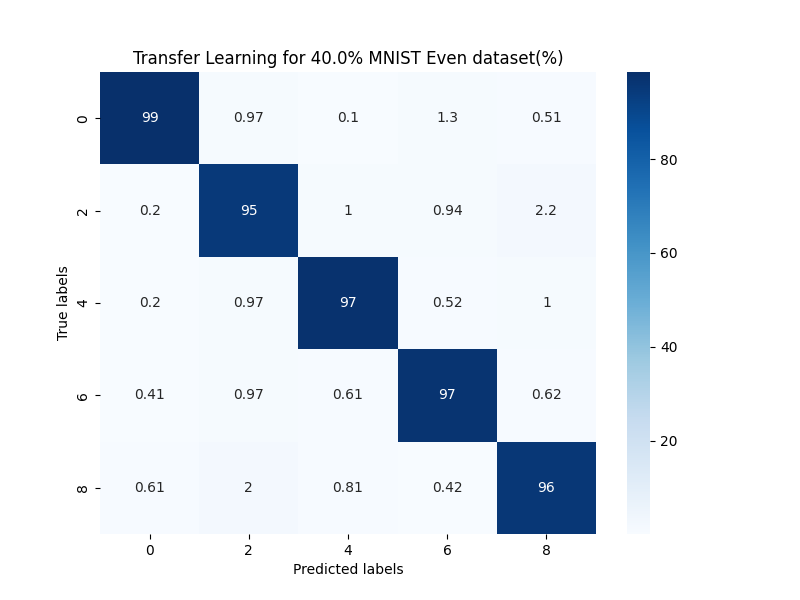
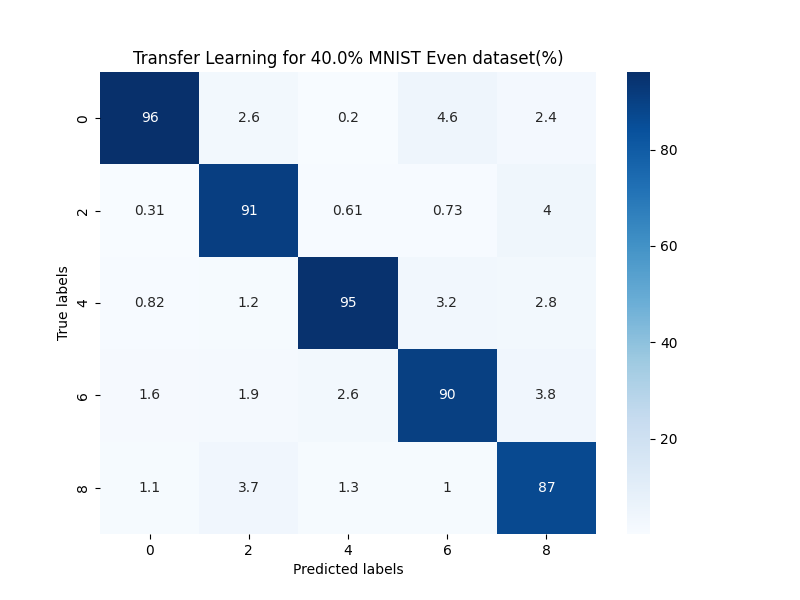
changed tensors to use cpu since the mps is not working. Will be worked on later

diff --git a/dataset.py b/dataset.py
@@ -31,24 +31,16 @@ def to_tensor():
     train_even_data, train_odd_data = even_odd_split(train_loader)
     test_even_data, test_odd_data = even_odd_split(test_loader)
 
-    if torch.backends.mps.is_available():
-        device = torch.device('mps')
-        print('mps available')
-    elif torch.cuda.is_available():
-        device = torch.device('cuda')
-    else:
-        device = torch.device('cpu')
+    X_train_even = torch.tensor(train_even_data.drop(columns=['label']).values, dtype=torch.float32)/255
+    y_train_even = torch.tensor(train_even_data['label'].values, dtype=torch.long)
 
-    X_train_even = torch.tensor(train_even_data.drop(columns=['label']).values, dtype=torch.float32, device=device)/255
-    y_train_even = torch.tensor(train_even_data['label'].values, dtype=torch.long, device=device)
-
-    X_test_even = torch.tensor(test_even_data.drop(columns=['label']).values, dtype=torch.float32, device=device)/255
-    y_test_even = torch.tensor(test_even_data['label'].values, dtype=torch.long, device=device)
+    X_test_even = torch.tensor(test_even_data.drop(columns=['label']).values, dtype=torch.float32)/255
+    y_test_even = torch.tensor(test_even_data['label'].values, dtype=torch.long)
 
     n_samples_even, n_features_even = X_train_even.shape
 
-    X_train_odd = torch.tensor(train_odd_data.drop(columns=['label']).values, dtype=torch.float32, device=device)/255
-    y_train_odd = torch.tensor(train_odd_data['label'].values, dtype=torch.long, device=device)
+    X_train_odd = torch.tensor(train_odd_data.drop(columns=['label']).values, dtype=torch.float32)/255
+    y_train_odd = torch.tensor(train_odd_data['label'].values, dtype=torch.long)
 
     X_test_odd = torch.tensor(test_odd_data.drop(columns=['label']).values, dtype=torch.float32)/255
     y_test_odd = torch.tensor(test_odd_data['label'].values, dtype=torch.long)

diff --git a/main.py b/main.py
@@ -48,7 +48,7 @@ def plot_confusion_odd(model, title, file, test_data=X_test_odd):
 
 
 n_classes = 5
-n_epochs = 1000
+n_epochs = 100
 lr = 0.1
 hidden_layer = 500
 
@@ -116,5 +116,5 @@ for percentage in percentages:
     optimizer = torch.optim.Adam(trans_odd_model.parameters(), lr=lr)
     trans_odd_model.fit(X_train_trans_odd[:perc_samples], y_train_odd[:perc_samples], X_test_trans_odd,
                         y_test_odd, n_epochs, criterion, optimizer, le_odd)
-    plot_confusion_odd(trans_odd_model, 'Transfer learning for {100*percentage}% MNIST Odd dataset',
+    plot_confusion_odd(trans_odd_model, f'Transfer learning for {100*percentage}% MNIST Odd dataset',
                        'trans_odd', X_test_trans_odd)
